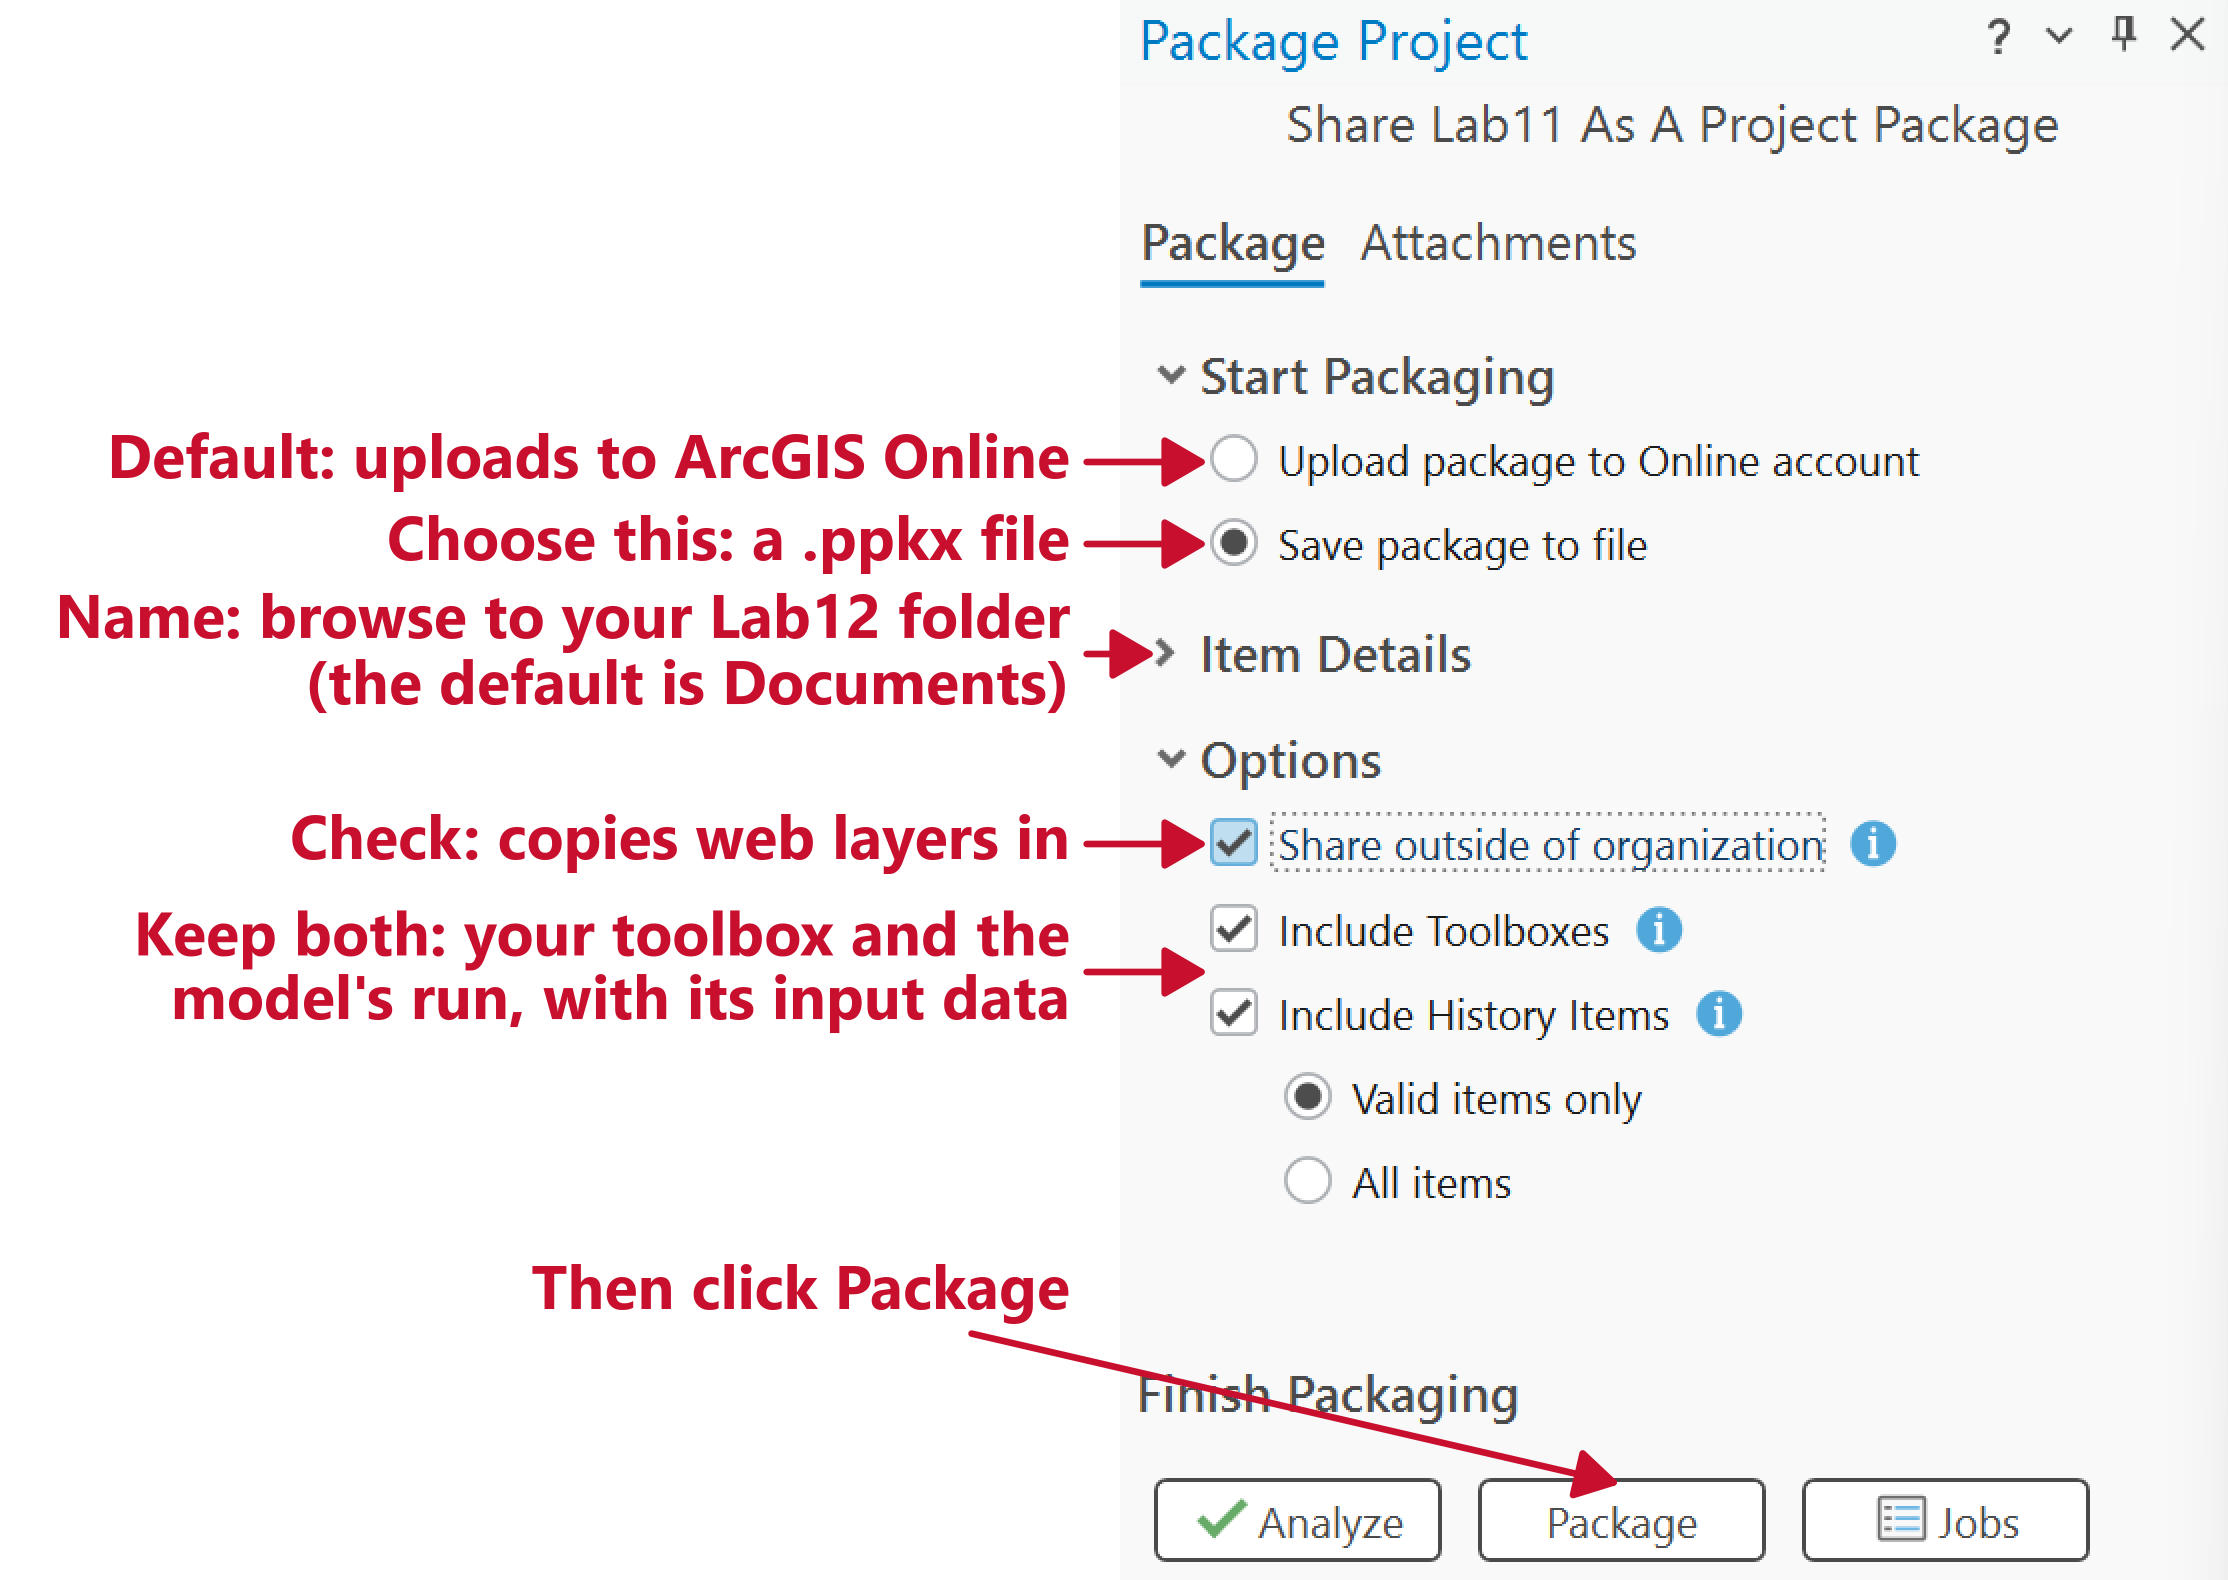
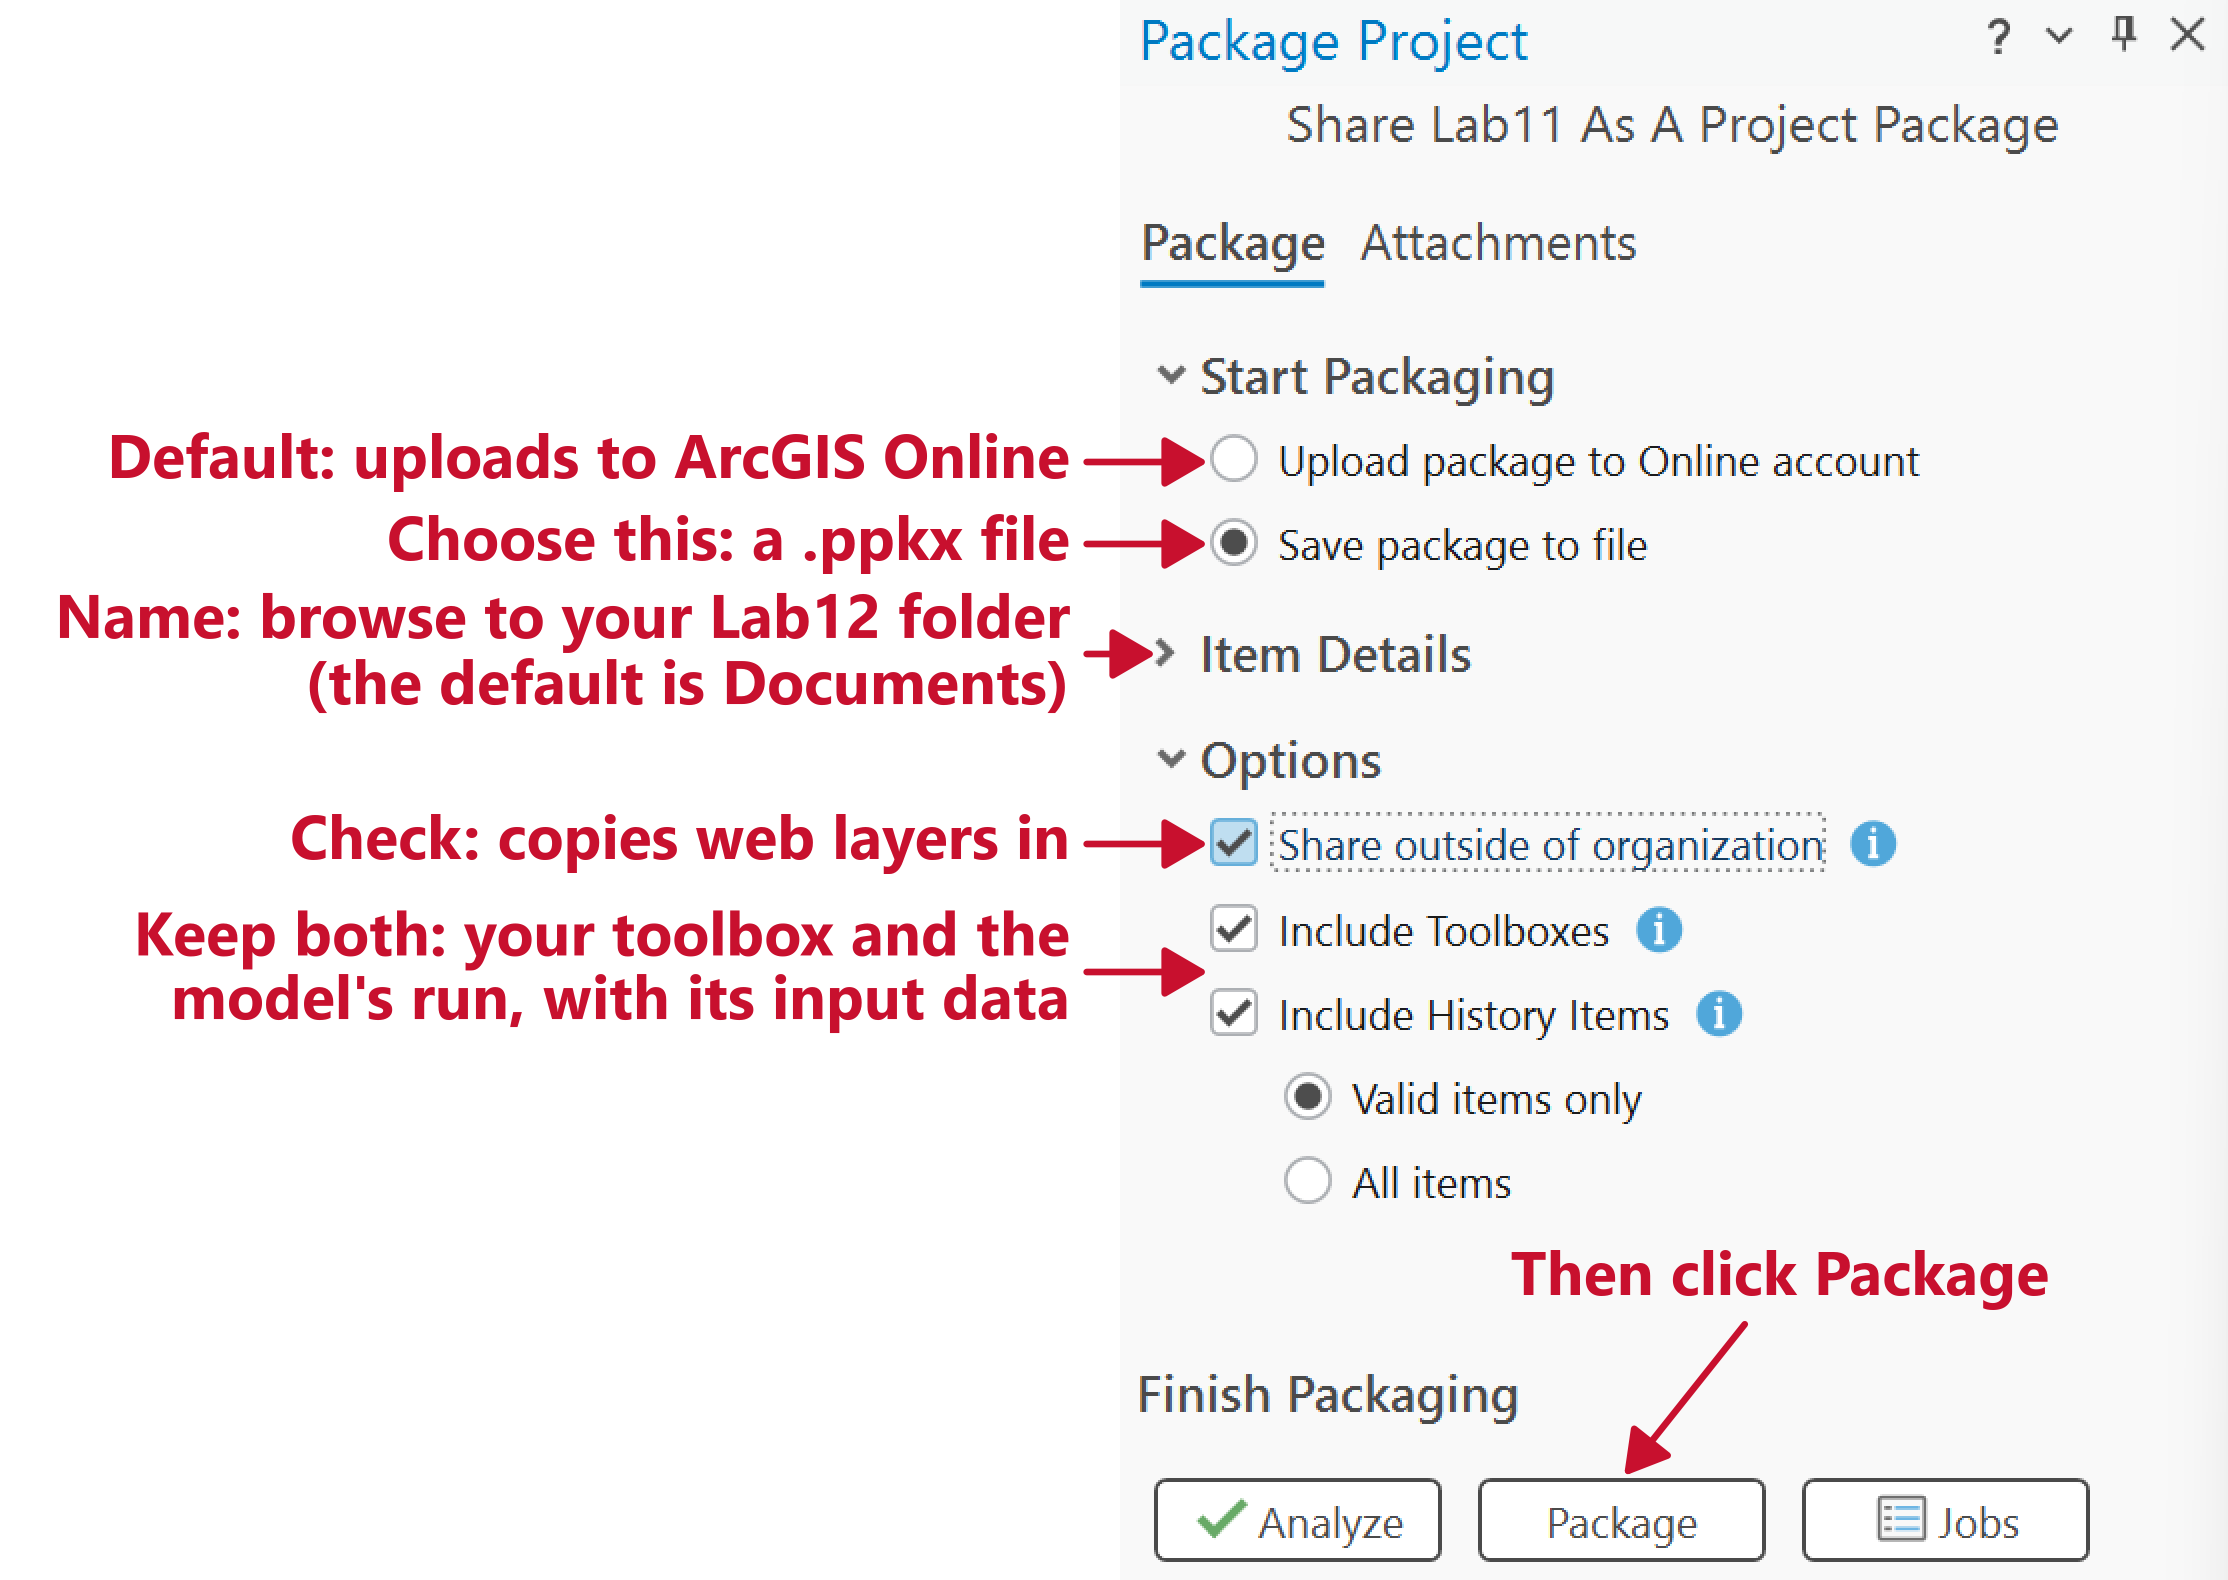
Week 14 Thursday: package quiz names both rules; final exam room from BYU's schedule; Package callout clear of labels
- Package quiz: the correct answer is that the raster was in no map AND no tool-dialog run put it
  in the history; option A lengthened so D is not the longest
- Final exam slide: room "on BYU's final exam schedule", posted on Learning Suite, instead of
  "here in our lab"; "the third hour"
- Swap Packages note: check before class that a .ppkx unpacks on a lab machine (C: locked)
- Package slide: menu path on one line; "Then click Package" sits in the pane's empty space
- Package quiz graphic slightly larger; restamp 2026-11-17

diff --git a/tools/week14_studio_figures.py b/tools/week14_studio_figures.py
@@ -29,8 +29,9 @@ NOTES = [  # (row in the capture, x the arrow points at, note, nudge)
     (327, 18, "Name: browse to your Lab12 folder\n(the default is Documents)", 0),
     (422, 44, "Check: copies web layers in", 0),
     (486, 44, "Keep both: your toolbox and the\nmodel's run, with its input data", 0),
-    (742, 250, "Then click Package", -95),
 ]
+# The last note sits inside the pane's empty space, so its arrow does not cross "Finish Packaging".
+INSIDE = (738, 252, "Then click Package", 330, 640)
 
 im = mpimg.imread(IMG / "studio-package-project.png")
 h, w = im.shape[:2]
@@ -44,6 +45,11 @@ for y, x, text, nudge in NOTES:
                 fontsize=FONT, color=RED, weight="bold", linespacing=1.1,
                 arrowprops=dict(arrowstyle="-|>,head_width=0.35,head_length=0.6", color=RED, lw=2.4,
                                 shrinkA=4, shrinkB=0))
+y, x, text, tx, ty = INSIDE
+ax.annotate(text, xy=(NOTE_W + x, y), xytext=(NOTE_W + tx, ty), ha="center", va="center",
+            fontsize=FONT, color=RED, weight="bold",
+            arrowprops=dict(arrowstyle="-|>,head_width=0.35,head_length=0.6", color=RED, lw=2.4,
+                            shrinkA=4, shrinkB=0))
 fig.savefig(IMG / "studio-package-project-callouts.png", facecolor="white"); plt.close(fig)
 print("wrote studio-package-project-callouts.png")
 

diff --git a/slides/week-14/lab-12-studio.md b/slides/week-14/lab-12-studio.md
@@ -24,7 +24,7 @@ Dr. Dan Ames
 <!-- Week 14 has no new lecture. Midterm 2 is open in the Testing Center Tuesday 8:00 am to Thursday 9:00 pm (late fee from Thursday 2:00 pm), and both class meetings are a Lab 12 studio: about fifteen minutes of teaching at the start, then open lab with the instructor circulating. Tuesday: is the project real, then how to record the screen and voice and post the video unlisted on YouTube, with a 20-second test. Thursday: package the project and swap packages with a classmate. Thursday is the last in-person meeting before Lab 12 is due (Thursday of Week 15); the instructor is away that week. -->
 
 <!-- stamp:begin -->
-<!-- _footer: '<span>CE 414 · Week 14 — Lab 12 Studio<span class="updated">Last Updated: 2026-11-16</span></span><span>© 2026 Daniel P. Ames · <a href="https://creativecommons.org/licenses/by/4.0/">CC BY 4.0</a></span>' -->
+<!-- _footer: '<span>CE 414 · Week 14 — Lab 12 Studio<span class="updated">Last Updated: 2026-11-17</span></span><span>© 2026 Daniel P. Ames · <a href="https://creativecommons.org/licenses/by/4.0/">CC BY 4.0</a></span>' -->
 <!-- stamp:end -->
 
 ---
@@ -139,9 +139,9 @@ You want the grader to watch your video from a **link**, but you do not want str
 
 # Package the Project
 
-![bg right:60% w:97%](images/studio-package-project-callouts.png)
+![bg right:57% w:97%](images/studio-package-project-callouts.png)
 
-- **Share** tab ▸ **Package** ▸ **Project**
+- **Share** ▸ **Package** ▸ **Project**
 - Before you package: every input is a **layer in a map**, and the model has run once from its **tool dialog**
 - Afterward, **double-click** the `.ppkx`: the maps draw and the model is there
 
@@ -160,7 +160,7 @@ You want the grader to watch your video from a **link**, but you do not want str
 - Open their model from the **toolbox** and **run it from its tool dialog**. Does it finish?
 - If anything is missing, write down **which input**, and tell them
 
-<!-- This is the grader's test, done by a classmate while there is still time to fix it. A package that opens on its author's machine can still fail on another, because the author's machine has the data in its original folders. Fifteen minutes; then back to work. -->
+<!-- This is the grader's test, done by a classmate while there is still time to fix it. A package that opens on its author's machine can still fail on another, because the author's machine has the data in its original folders. Fifteen minutes; then back to work. CHECK BEFORE CLASS on a lab machine: double-clicking a .ppkx unpacks it under Documents\ArcGIS\Packages on C:, which is locked there. If it will not open, change the unpack folder to D: in ArcGIS Pro's options (Options, Share and Download; verify the exact setting name) and walk the class through it before the swap. -->
 
 ---
 
@@ -168,20 +168,20 @@ You want the grader to watch your video from a **link**, but you do not want str
 
 # Talk to Your Neighbor
 
-![bg right:44% w:94%](images/cyoa-package-contents.svg)
+![bg right:46% w:100%](images/cyoa-package-contents.svg)
 
 Your classmate's package opens and its maps draw, but the model stops: one **input raster** is missing. What most likely happened?
 
 <ol type="A">
-<li>The raster was too large for a package to carry</li>
+<li>The raster was too large for a package to carry, so it was dropped</li>
 <li>Include Toolboxes was left checked in Package Project</li>
 <li>The package was opened on a computer in a different time zone</li>
-<li class="correct">It was not a layer in any map, so the package left it out</li>
+<li class="correct">It was in no map, and no tool-dialog run put it in the history</li>
 </ol>
 
 * <span class="reveal"></span>
 
-<!-- One minute in pairs, then the key press circles D. A package copies map layers and the geoprocessing history's data, but not a model's inputs on their own (Lab 12 Step 7). The fix: add the raster to a map, run the model once from its tool dialog, and package again. B is backwards: Include Toolboxes is what brings the model along. -->
+<!-- One minute in pairs, then the key press circles D. A package copies map layers and the geoprocessing history's data, but not a model's inputs on their own (Lab 12 Step 7), so a raster goes missing only when both rules were broken: it was in no map, and the model never ran from its tool dialog. A is wrong: a package has no size cap of its own, though a large one may need a Drive or Box link. The fix: add the raster to a map, run the model once from its tool dialog, and package again. B is backwards: Include Toolboxes is what brings the model along. -->
 
 ---
 
@@ -208,10 +208,10 @@ Your classmate's package opens and its maps draw, but the model stops: one **inp
 
 ![bg right:40%](images/studio-final-exam.jpg)
 
-- **Thursday, December 17, 7:00 to 10:00 am**, here in our **lab**, at a lab computer
+- **Thursday, December 17, 7:00 to 10:00 am**, at a **lab computer** in the room on BYU's final exam schedule; I will post it on Learning Suite
 - You must **come in person** at that time: there is no take-home or online version
 - **One question**, done in **ArcGIS Pro**: open book and open computer, AI permitted and disclosed
-- Plan on about **two hours**; the third is for software trouble and for exporting and uploading **one PDF**
+- Plan on about **two hours**; the third hour is for software trouble and for exporting and uploading **one PDF**
 - A **conflict**? Tell me **now**, by email, not the week of the exam
 
-<!-- The time is the Learning Suite exam entry (Final Exam, 12/17/2026, 7:00-10:00 am); confirm the room against BYU's final exam schedule before class. The format follows the course schedule page (one question in ArcGIS Pro at a lab computer, open book and open computer, a three-hour block, one PDF) and the AI policy's final-exam section (AI permitted, and disclosed). The image was generated in the deck-wide anime style (tools/divider-images/week14-anime.json). -->
+<!-- The time is the Learning Suite exam entry (Final Exam, 12/17/2026, 7:00-10:00 am); confirm the room against BYU's final exam schedule and post it on Learning Suite before class. The format follows the course schedule page (one question in ArcGIS Pro at a lab computer, open book and open computer, a three-hour block, one PDF) and the AI policy's final-exam section (AI permitted, and disclosed). The image was generated in the deck-wide anime style (tools/divider-images/week14-anime.json). -->
